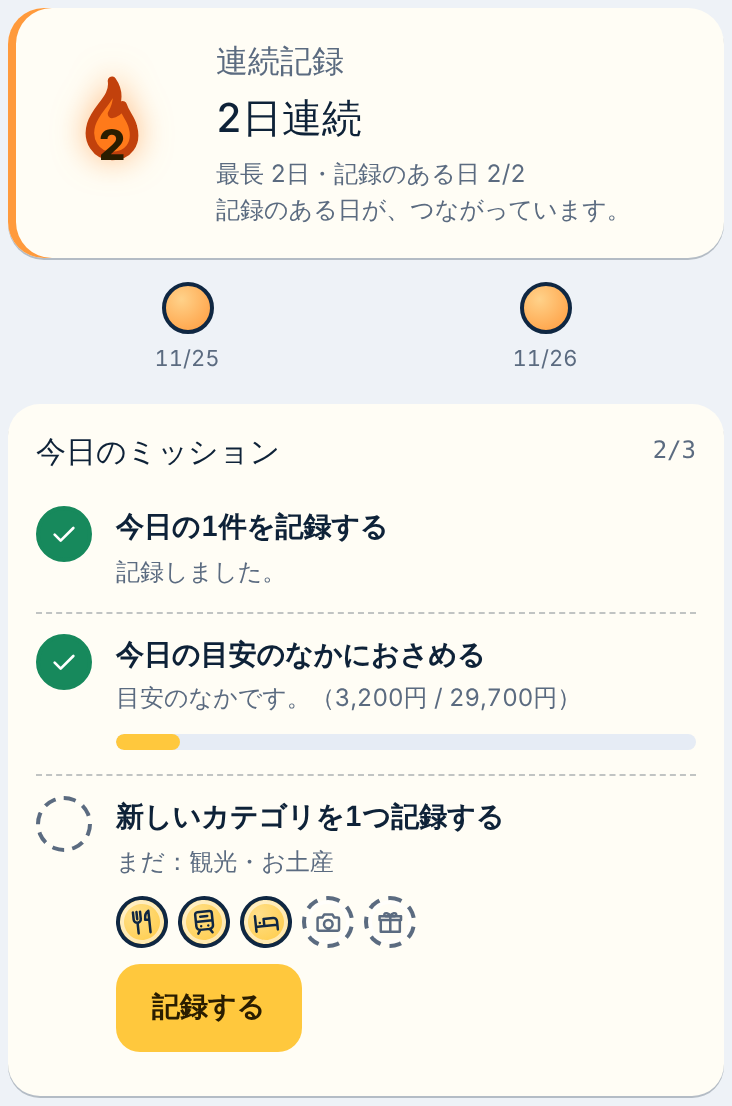
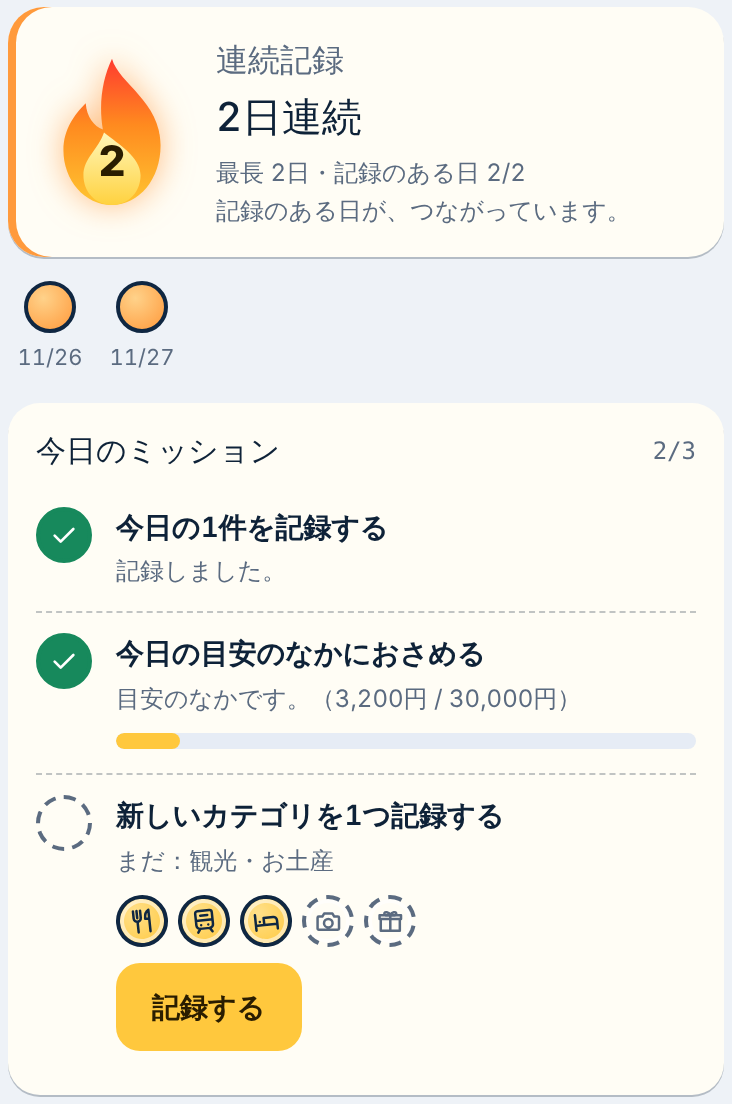
最初のページのミッションの写真を、新しい炎で撮り直す（v215）
Claude-Session: https://claude.ai/code/session_018j1uCstYunzwEbum7V7c7v

diff --git a/index.html b/index.html
@@ -1774,7 +1774,7 @@ function viewHomeEmpty(){
   const stages = [['1', '出発前', '行く前に、少しずつ貯める', 'ひとりずつ、あといくら貯めればいいかが分かります。出発が近づくと、通知でそっと知らせます。', 'save', '積立の画面。みんなの積立が16,000円。', 222],
     ['2', '旅行中', '旅先では、今日いくら使えるか', '予算の残りから、今日使っていい額を出します。「夕食 2000円」と書くだけで、記録できます。', 'exp', '今日の目安が12,000円。ひとことで記録する欄。', 266],
     ['3', '旅行後', '帰ったら、誰が誰にいくらか', '立て替えの差し引きを計算して、誰が誰にいくら送ればいいかを出します。払う人には、通知が届きます。', 'settle', '精算の画面。あおいさん 8,367円、けんたさん 6,766円。', 224]];
-  const play = [['今日のミッション', '毎日の、小さな目標', '今日の1件を記録する。今日の目安のなかにおさめる。新しいカテゴリを記録する。続けると、連続の炎がともります。', 'mission', 'ミッションの画面。2日連続。今日のミッションが2つ済んでいる。', 553],
+  const play = [['今日のミッション', '毎日の、小さな目標', '今日の1件を記録する。今日の目安のなかにおさめる。新しいカテゴリを記録する。続けると、連続の炎がともります。', 'mission', 'ミッションの画面。2日連続。今日のミッションが2つ済んでいる。', 552],
     ['旅の道のり', 'ぜんぶ歩くと、金の判子', '積立から精算までの道のりが、地図になります。いまどこまで来たかが分かり、共有している友だちと、同じ進み具合を見られます。ぜんぶ達成すると、旅のまとめ画像に、金の判子が載ります。', 'quest', '道のりの画面。旅の完成度が60%。次の目標が出ている。', 329]];
   const feats = [['一部の人だけの割り勘', '人ごとに選べる'], ['割合・金額', '多め・少なめに'], ['レシートの写真', '店名と合計を読む'], ['受け取りの確認', '払った・受け取った'], ['変更の履歴', '誰がいつ'], ['まとめ画像', 'レシート風']];
   const steps = ['旅行をつくる（名前・日付・予算・メンバー）', '共有リンクを、LINEで友だちに送る', '旅行中は、払った人が記録する', '最後に「精算」を開いて、表示のとおりに送金する'];

diff --git a/sw.js b/sw.js
@@ -1,5 +1,5 @@
 /* Offline cache for the app shell. Bump VERSION when any cached file changes. API calls are never cached. */
-const VERSION = 'tabiwari-v214';
+const VERSION = 'tabiwari-v215';
 const FILES = ['./', './index.html', './config.js', './sync.js', './share.js', './line.js', './manifest.json',
   './icons/icon-192.png', './icons/icon-512.png', './icons/apple-touch-icon.png', './icons/icon-maskable-512.png', './icons/line-login-icon.png'];
 const OPTIONAL = ['./icons/lp/save.png', './icons/lp/exp.png', './icons/lp/settle.png', './icons/lp/mission.png', './icons/lp/quest.png', './terms.html', './privacy.html', './legal.css'];   // optional: a missing one must not break the install

diff --git a/HANDOFF.md b/HANDOFF.md
@@ -591,3 +591,4 @@
 - **v211 の上に、v212（ブランチ `claude/seal-fix`。確認待ち＝マージ前）道のりの「金の判子」の文字のズレ（ユーザー: 「ここの表示ズレ修正ね」＝道のりの一番下の「金」の判子に丸）**: 「金」の文字が、丸の中央ではなく、**左上に、小さく**出ていた。原因: 判子の文字（`.qseal`＝`span`）にも、隣の説明文用の `.qgold span{display:block;font-size:12px;…}` が当たって、`display:grid`（中央寄せ）と文字の大きさ（22px）が、上書きされていた（詳しさ: 子孫セレクタ `.qgold span`（0,1,1）が、`.qseal`（0,1,0）に勝つ）。→ 説明文だけに当たるよう `.qgold div span` に。**教訓**: `親 span{…}` のような、**子孫セレクタ**は、同じ親の中の、**別の役の span** にも当たる。新しい部品の中に、class つきの span / b / small を置くときは、親の「span」のルールが、当たらないか、確かめる。テスト: 「金」が判子の中央（±2px）・大きさ20px以上・`display:grid`（`ui.e2e.mjs`）。`npm test`・`test:ui` が通った。**実機の確認は、まだ。**
 - **v212 の上に、v213（ブランチ `claude/mini-route-fix`。確認待ち＝マージ前）ホームのカードの小さな路線の、左側が切れていた（ユーザー: 「ここの左側が途切れてる」＝現在の駅の光の輪に丸）**: 原因: 小さな路線（`.route.mini`）に、**はみ出し防止の `overflow:hidden`**（v195 で、顔が多いカードで、路線が半券に重なるのを防ぐために付けた）があり、**最初の駅の光の輪（3pxの影）が、左端で切られた**。→ 路線の内側に、左右4pxの余白（`padding:0 4px`）。**教訓（`overflow:hidden` の仲間）**: 影・輪・光は、箱の外へ出る。`overflow:hidden` の箱の中に置くときは、**内側に、その分の余白**を。テスト: 初日の旅（最初の駅が現在の駅）で、光の輪が、路線の左端の内側（`ui.e2e.mjs`）。`npm test`・`test:ui`・`test:share` が通った。**実機の確認は、まだ。**
 - **v213 の上に、v214（ブランチ `claude/headline`。確認待ち＝マージ前）最初のページの見出しを、1行の文に（ユーザー: 「1番最初の、いくら出したっけ？の文を、1行で収まる、もっといい文ないかな？」→ 4案から **C**）**: 見出しを **「旅のお金を、片づけます。」**（12字・1行）に。説明の文も、見出しと重ならないように、「友だちやパートナーとの国内旅行は、「いくら出したっけ」となりがちです。出発前の積立から、帰ったあとの精算まで、順に進められます。」に（「いくら出したっけ」は、説明に残した）。見出しの大きさ: `min(29px, (画面の幅−32px)/12.4)`・折り返さない（12字×29px＝348px が、390px幅の内側 358px に収まる。**最初は30px・11.8で割る**にしたら、320pxで、はみ出した＝文字数を、11と数え間違えていた（12字）。実測して直した）。**ついでに**: 下の見出し「出発前から、帰ったあとまで」が、360px幅で、「で」だけ次の行に落ちていた（以前から）→ 341px以上の幅で、大きさを幅から決めて1行に（絵のある見出しすべて）。テストの目印: 最初のページかどうかを、見出しの文字で確かめていた4か所（`ui.e2e.mjs`・`share.e2e.mjs`）を、新しい見出しに。テスト: 見出しが、320・360・390・430pxで、1行・はみ出さない・22px以上／絵つきの見出しが、360・390・430pxで、1行。`npm test`・`test:ui`・`test:share`・`test:account`・`launch-check` が通った。**実機の確認は、まだ。**
+- **v214 の上に、v215（ブランチ `claude/lp-photos`。確認待ち＝マージ前）最初のページの「毎日の、小さな目標」の写真を、新しい炎で撮り直し（ユーザー: 「最初のページの炎のところが修正加わってない」）**: 原因は、`icons/lp/mission.png`（最初のページの実画面の写真）が、v209 で炎を描き直す前に撮った古い画像のままだったこと（アプリの炎は新しかった）。→ 今の画面（しずく形の炎＋2、2日連続、ミッション2/3）で撮り直し（732×1104。高さの指定 553→552）。quest.png は炎が無く、今の画面と同じなので、そのまま。**注意: LPの写真（save/exp/settle/mission/quest）は、画面の見た目を変えたら、撮り直すこと**（自動では変わらない）。テスト: `npm test`・`test:ui` が通った（`test:ui` の「the weights come back when editing」が、たまに落ちる＝以前からの不安定。今回の変更とは無関係）。**実機の確認は、まだ。**
